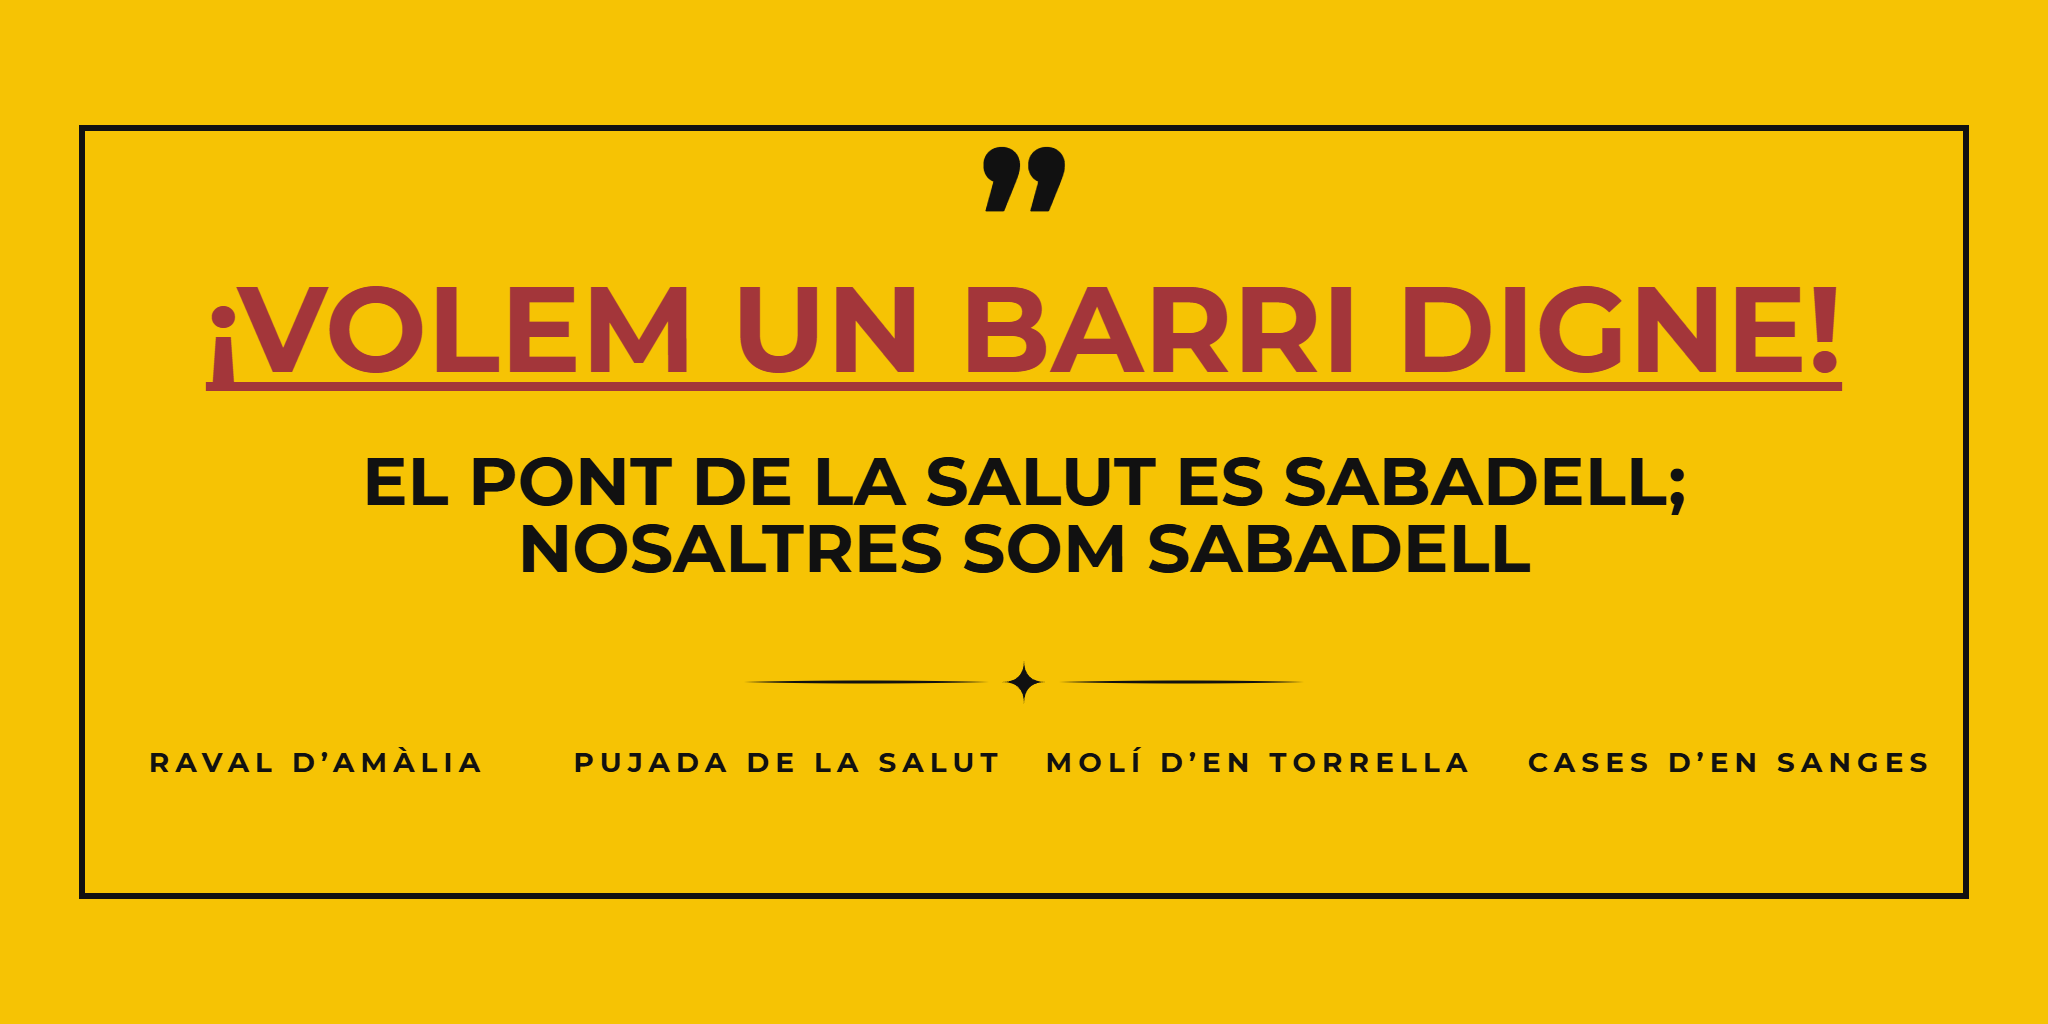
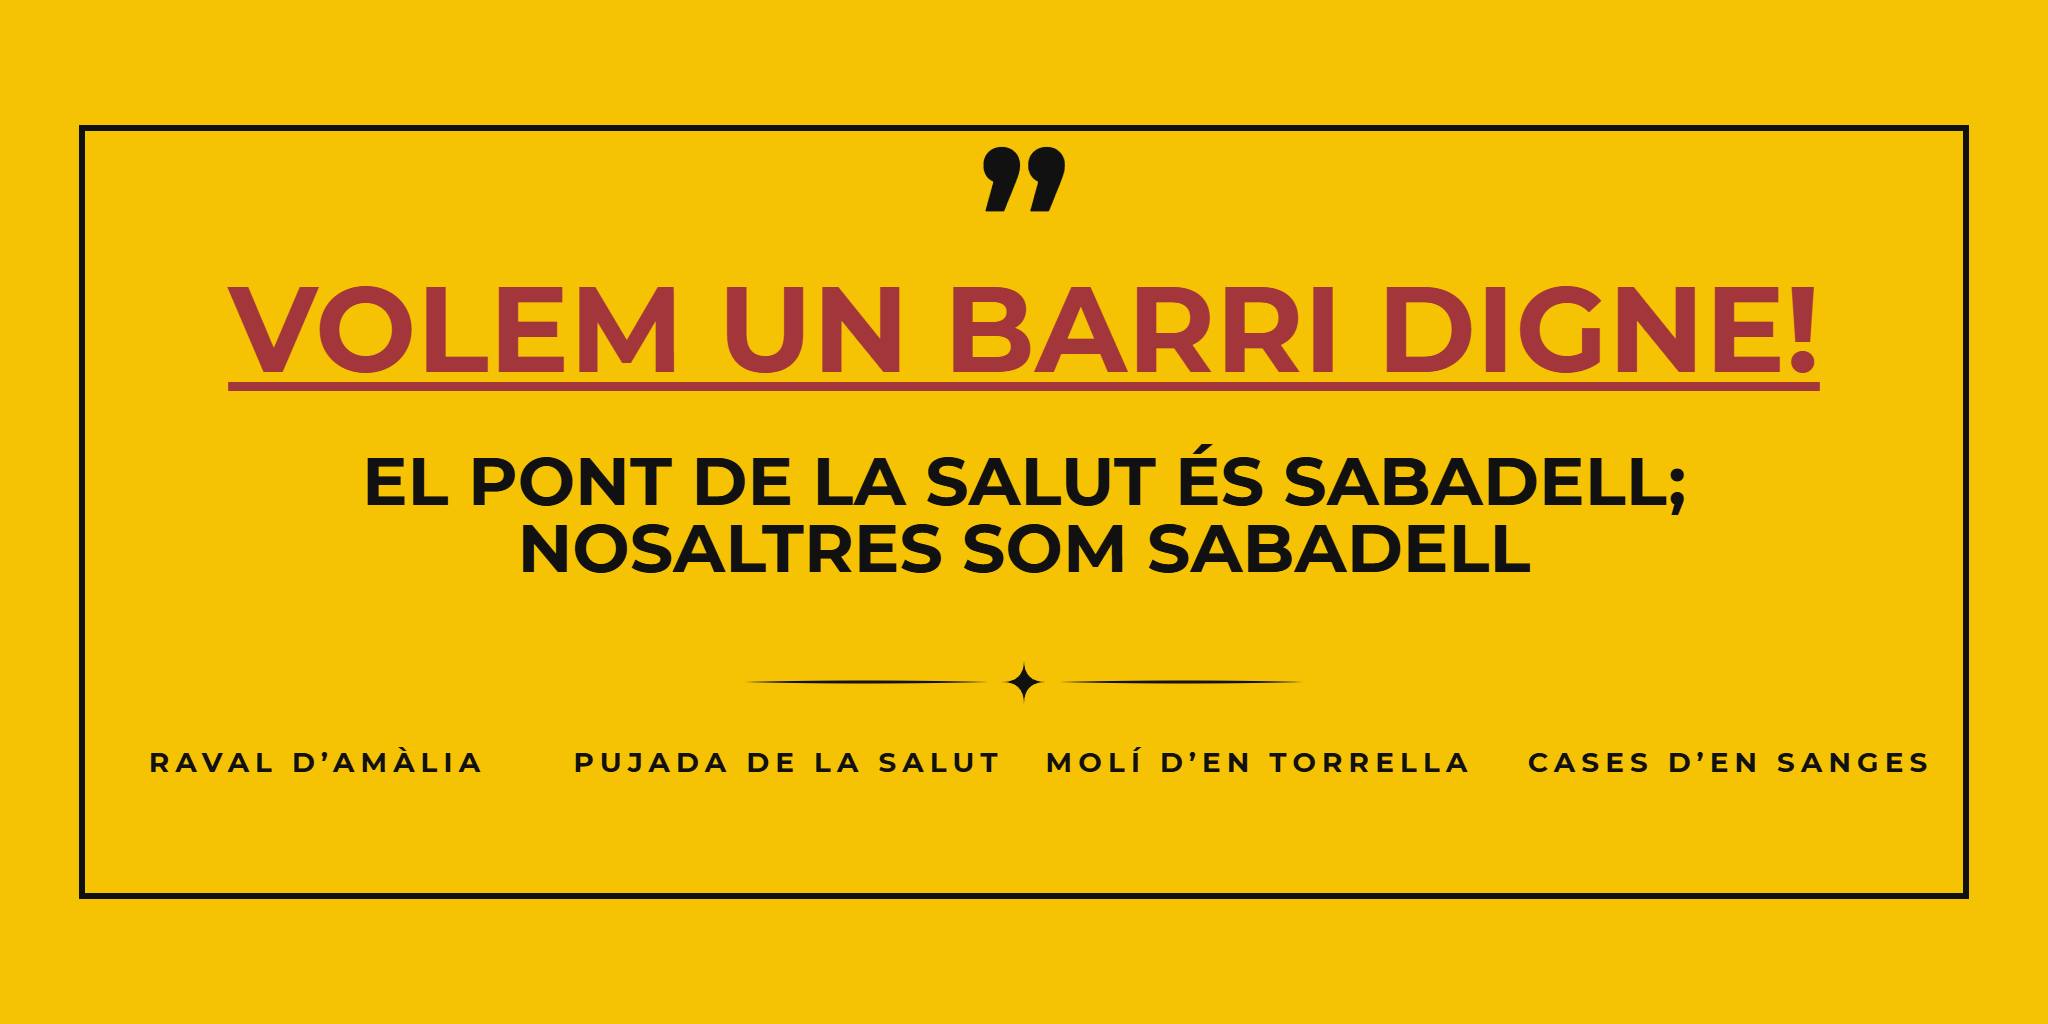
Qué pedimos, cronología, mapa y lema corregido en catalán

Changed region(s): [[0.0938, 0.2812, 0.9062, 0.375]]

diff --git a/index.html b/index.html
@@ -89,6 +89,18 @@
   .pfig figcaption { margin-top:10px; }
   .pfig .btn { margin-top:0; }
   .qrs { display:grid; gap:14px; grid-template-columns:1fr; max-width:340px; margin:0 auto; }
+  .maplink { margin:14px 0 0; }
+  .demands { list-style:none; counter-reset:d; padding:0; margin:0; display:grid; gap:12px; }
+  .demands li { counter-increment:d; background:var(--card); border:1px solid var(--line); border-left:6px solid #a3363a; border-radius:12px; padding:14px 16px 14px 58px; position:relative; }
+  .demands li::before { content:counter(d); position:absolute; left:16px; top:12px; width:30px; height:30px; border-radius:50%; background:#a3363a; color:#fff; font-weight:800; display:flex; align-items:center; justify-content:center; }
+  .demands strong { display:block; font-size:1.05rem; }
+  .demands span { color:var(--muted); }
+  .more { color:var(--muted); font-size:.9rem; margin:10px 0 0; }
+  .timeline { list-style:none; margin:0; padding:0 0 0 22px; border-left:3px solid #f6c304; display:grid; gap:14px; }
+  .timeline li { position:relative; }
+  .timeline li::before { content:""; position:absolute; left:-31px; top:4px; width:15px; height:15px; border-radius:50%; background:#f6c304; border:3px solid #1d2a38; }
+  .timeline time { display:block; font-weight:800; color:#a3363a; font-size:.92rem; }
+  .timeline p { margin:2px 0 0; }
 </style>
 </head>
 <body>
@@ -113,8 +125,8 @@
     <div class="poster">
       <div class="poster-in">
         <div class="pq" aria-hidden="true">”</div>
-        <p class="pt">¡VOLEM UN BARRI DIGNE!</p>
-        <p class="ps">EL PONT DE LA SALUT ES SABADELL;<br>NOSALTRES SOM SABADELL</p>
+        <p class="pt">VOLEM UN BARRI DIGNE!</p>
+        <p class="ps">EL PONT DE LA SALUT ÉS SABADELL;<br>NOSALTRES SOM SABADELL</p>
         <div class="pd" aria-hidden="true"><span></span>✦<span></span></div>
         <ul class="pb"><li>RAVAL D’AMÀLIA</li><li>PUJADA DE LA SALUT</li><li>MOLÍ D’EN TORRELLA</li><li>CASES D’EN SANGES</li></ul>
       </div>
@@ -129,7 +141,31 @@
         <h2>Què passa</h2>
         <p>Veïns del Raval d'Amàlia, la Pujada de la Salut, el Molí d'en Torrella i les Cases d'en Sanges, a l'entorn del Pont de la Salut i la carretera de Caldes, reclamen voreres segures, transport públic i millor accessibilitat. Aquí recollim les notícies publicades i les posicions de cada part.</p>
         <div class="barris"><span class="barris-l">Barris:</span><span class="chip">Raval d'Amàlia</span><span class="chip">Pujada de la Salut</span><span class="chip">Molí d'en Torrella</span><span class="chip">Cases d'en Sanges</span></div>
+        <p class="maplink"><a class="btn ghost" href="https://www.openstreetmap.org/search?query=Pont%20de%20la%20Salut%2C%20Sabadell" target="_blank" rel="noopener">Veure la zona al mapa ↗</a></p>
       </div>
+    </section>
+
+    <section>
+      <h2>Què demanem</h2>
+      <ol class="demands">
+        <li><strong>Transport públic als barris</strong><span>Que una línia regular d'autobús arribi al Raval d'Amàlia, la Pujada de la Salut, el Molí d'en Torrella i les Cases d'en Sanges.</span></li>
+        <li><strong>Voreres</strong><span>Voreres segures i accessibles per poder caminar sense haver d’anar per la calçada, també amb cadira de rodes, cotxet o quan plou.</span></li>
+      </ol>
+      <p class="more">Anirem afegint més peticions.</p>
+    </section>
+
+    <section>
+      <h2>Cronologia</h2>
+      <ol class="timeline">
+        <li><time>15/09/2023</time><p>El Diari de Sabadell publica queixes de veïns del Molí d’en Torrella.</p></li>
+        <li><time>25/03/2025</time><p>El ple municipal aprova per unanimitat una moció per elaborar en 12 mesos un pla per dignificar l’entorn de la carretera de Caldes. La carretera és de la Generalitat.</p></li>
+        <li><time>Principis del 2026</time><p>Segons els veïns, la regidora del districte els presenta una primera fase de millores (voreres, aparcaments i una petita rotonda) amb obres previstes per a finals d’any.</p></li>
+        <li><time>22/10/2026</time><p>Els veïns denuncien a les xarxes que les obres encara no han començat.</p></li>
+        <li><time>01/11/2026</time><p>Veïns tallen el trànsit a la carretera de Caldes durant una hora per reclamar voreres i autobús.</p></li>
+        <li><time>02/11/2026</time><p>L’Ajuntament afirma que el projecte és gairebé acabat, amb 700.000 € previstos al pressupost, i avisa que l’execució es podria endarrerir fins al 2027.</p></li>
+        <li><time>03/11/2026</time><p>L’Informatiu de TV Sabadell-Vallès en parla.</p></li>
+      </ol>
+      <p class="more">Fets segons les notícies i les publicacions enllaçades en aquesta pàgina.</p>
     </section>
 
     <section>
@@ -218,8 +254,8 @@
       <h2>Cartells</h2>
       <p class="lead">Cartells dels veïns per compartir o imprimir.</p>
       <div class="posters">
-        <figure class="pfig"><img src="cartell-horitzontal.png" alt="Cartell: ¡Volem un barri digne! El Pont de la Salut es Sabadell; nosaltres som Sabadell. Raval d’Amàlia, Pujada de la Salut, Molí d’en Torrella, Cases d’en Sanges." width="2048" height="1024" loading="lazy"><figcaption><a class="btn ghost" href="cartell-horitzontal.png" download>Descarregar (horitzontal)</a></figcaption></figure>
-        <figure class="pfig"><img src="cartell-vertical.png" alt="Cartell: ¡Volem un barri digne! El Pont de la Salut es Sabadell; nosaltres som Sabadell. Raval d’Amàlia, Pujada de la Salut, Molí d’en Torrella, Cases d’en Sanges." width="1080" height="1350" loading="lazy"><figcaption><a class="btn ghost" href="cartell-vertical.png" download>Descarregar (vertical)</a></figcaption></figure>
+        <figure class="pfig"><img src="cartell-horitzontal.png" alt="Cartell: Volem un barri digne! El Pont de la Salut és Sabadell; nosaltres som Sabadell. Raval d’Amàlia, Pujada de la Salut, Molí d’en Torrella, Cases d’en Sanges." width="2048" height="1024" loading="lazy"><figcaption><a class="btn ghost" href="cartell-horitzontal.png" download>Descarregar (horitzontal)</a></figcaption></figure>
+        <figure class="pfig"><img src="cartell-vertical.png" alt="Cartell: Volem un barri digne! El Pont de la Salut és Sabadell; nosaltres som Sabadell. Raval d’Amàlia, Pujada de la Salut, Molí d’en Torrella, Cases d’en Sanges." width="1080" height="1350" loading="lazy"><figcaption><a class="btn ghost" href="cartell-vertical.png" download>Descarregar (vertical)</a></figcaption></figure>
       </div>
     </section>
 
@@ -256,7 +292,31 @@
         <h2>Qué pasa</h2>
         <p>Vecinos del Raval d'Amàlia, la Pujada de la Salut, el Molí d'en Torrella y las Cases d'en Sanges, en el entorno del Pont de la Salut y la carretera de Caldes, reclaman aceras seguras, transporte público y mejor accesibilidad. Aquí recogemos las noticias publicadas y las posiciones de cada parte.</p>
         <div class="barris"><span class="barris-l">Barrios:</span><span class="chip">Raval d'Amàlia</span><span class="chip">Pujada de la Salut</span><span class="chip">Molí d'en Torrella</span><span class="chip">Cases d'en Sanges</span></div>
+        <p class="maplink"><a class="btn ghost" href="https://www.openstreetmap.org/search?query=Pont%20de%20la%20Salut%2C%20Sabadell" target="_blank" rel="noopener">Ver la zona en el mapa ↗</a></p>
       </div>
+    </section>
+
+    <section>
+      <h2>Qué pedimos</h2>
+      <ol class="demands">
+        <li><strong>Transporte público en los barrios</strong><span>Que una línea regular de autobús llegue al Raval d'Amàlia, la Pujada de la Salut, el Molí d'en Torrella y las Cases d'en Sanges.</span></li>
+        <li><strong>Aceras</strong><span>Aceras seguras y accesibles para poder caminar sin tener que ir por la calzada, también en silla de ruedas, con carrito o cuando llueve.</span></li>
+      </ol>
+      <p class="more">Iremos añadiendo más peticiones.</p>
+    </section>
+
+    <section>
+      <h2>Cronología</h2>
+      <ol class="timeline">
+        <li><time>15/09/2023</time><p>El Diari de Sabadell publica quejas de vecinos del Molí d’en Torrella.</p></li>
+        <li><time>25/03/2025</time><p>El pleno municipal aprueba por unanimidad una moción para elaborar en 12 meses un plan para dignificar el entorno de la carretera de Caldes. La carretera es de la Generalitat.</p></li>
+        <li><time>Principios de 2026</time><p>Según los vecinos, la regidora del distrito les presenta una primera fase de mejoras (aceras, aparcamientos y una pequeña rotonda) con obras previstas para finales de año.</p></li>
+        <li><time>22/10/2026</time><p>Los vecinos denuncian en redes que las obras aún no han empezado.</p></li>
+        <li><time>01/11/2026</time><p>Vecinos cortan el tráfico en la carretera de Caldes durante una hora para reclamar aceras y autobús.</p></li>
+        <li><time>02/11/2026</time><p>El Ayuntamiento afirma que el proyecto está casi terminado, con 700.000 € previstos en el presupuesto, y advierte de que la ejecución podría retrasarse hasta 2027.</p></li>
+        <li><time>03/11/2026</time><p>El informativo de TV Sabadell-Vallès habla del tema.</p></li>
+      </ol>
+      <p class="more">Hechos según las noticias y publicaciones enlazadas en esta página.</p>
     </section>
 
     <section>
@@ -345,8 +405,8 @@
       <h2>Carteles</h2>
       <p class="lead">Carteles de los vecinos para compartir o imprimir.</p>
       <div class="posters">
-        <figure class="pfig"><img src="cartell-horitzontal.png" alt="Cartell: ¡Volem un barri digne! El Pont de la Salut es Sabadell; nosaltres som Sabadell. Raval d’Amàlia, Pujada de la Salut, Molí d’en Torrella, Cases d’en Sanges." width="2048" height="1024" loading="lazy"><figcaption><a class="btn ghost" href="cartell-horitzontal.png" download>Descargar (horizontal)</a></figcaption></figure>
-        <figure class="pfig"><img src="cartell-vertical.png" alt="Cartell: ¡Volem un barri digne! El Pont de la Salut es Sabadell; nosaltres som Sabadell. Raval d’Amàlia, Pujada de la Salut, Molí d’en Torrella, Cases d’en Sanges." width="1080" height="1350" loading="lazy"><figcaption><a class="btn ghost" href="cartell-vertical.png" download>Descargar (vertical)</a></figcaption></figure>
+        <figure class="pfig"><img src="cartell-horitzontal.png" alt="Cartell: Volem un barri digne! El Pont de la Salut és Sabadell; nosaltres som Sabadell. Raval d’Amàlia, Pujada de la Salut, Molí d’en Torrella, Cases d’en Sanges." width="2048" height="1024" loading="lazy"><figcaption><a class="btn ghost" href="cartell-horitzontal.png" download>Descargar (horizontal)</a></figcaption></figure>
+        <figure class="pfig"><img src="cartell-vertical.png" alt="Cartell: Volem un barri digne! El Pont de la Salut és Sabadell; nosaltres som Sabadell. Raval d’Amàlia, Pujada de la Salut, Molí d’en Torrella, Cases d’en Sanges." width="1080" height="1350" loading="lazy"><figcaption><a class="btn ghost" href="cartell-vertical.png" download>Descargar (vertical)</a></figcaption></figure>
       </div>
     </section>
 
